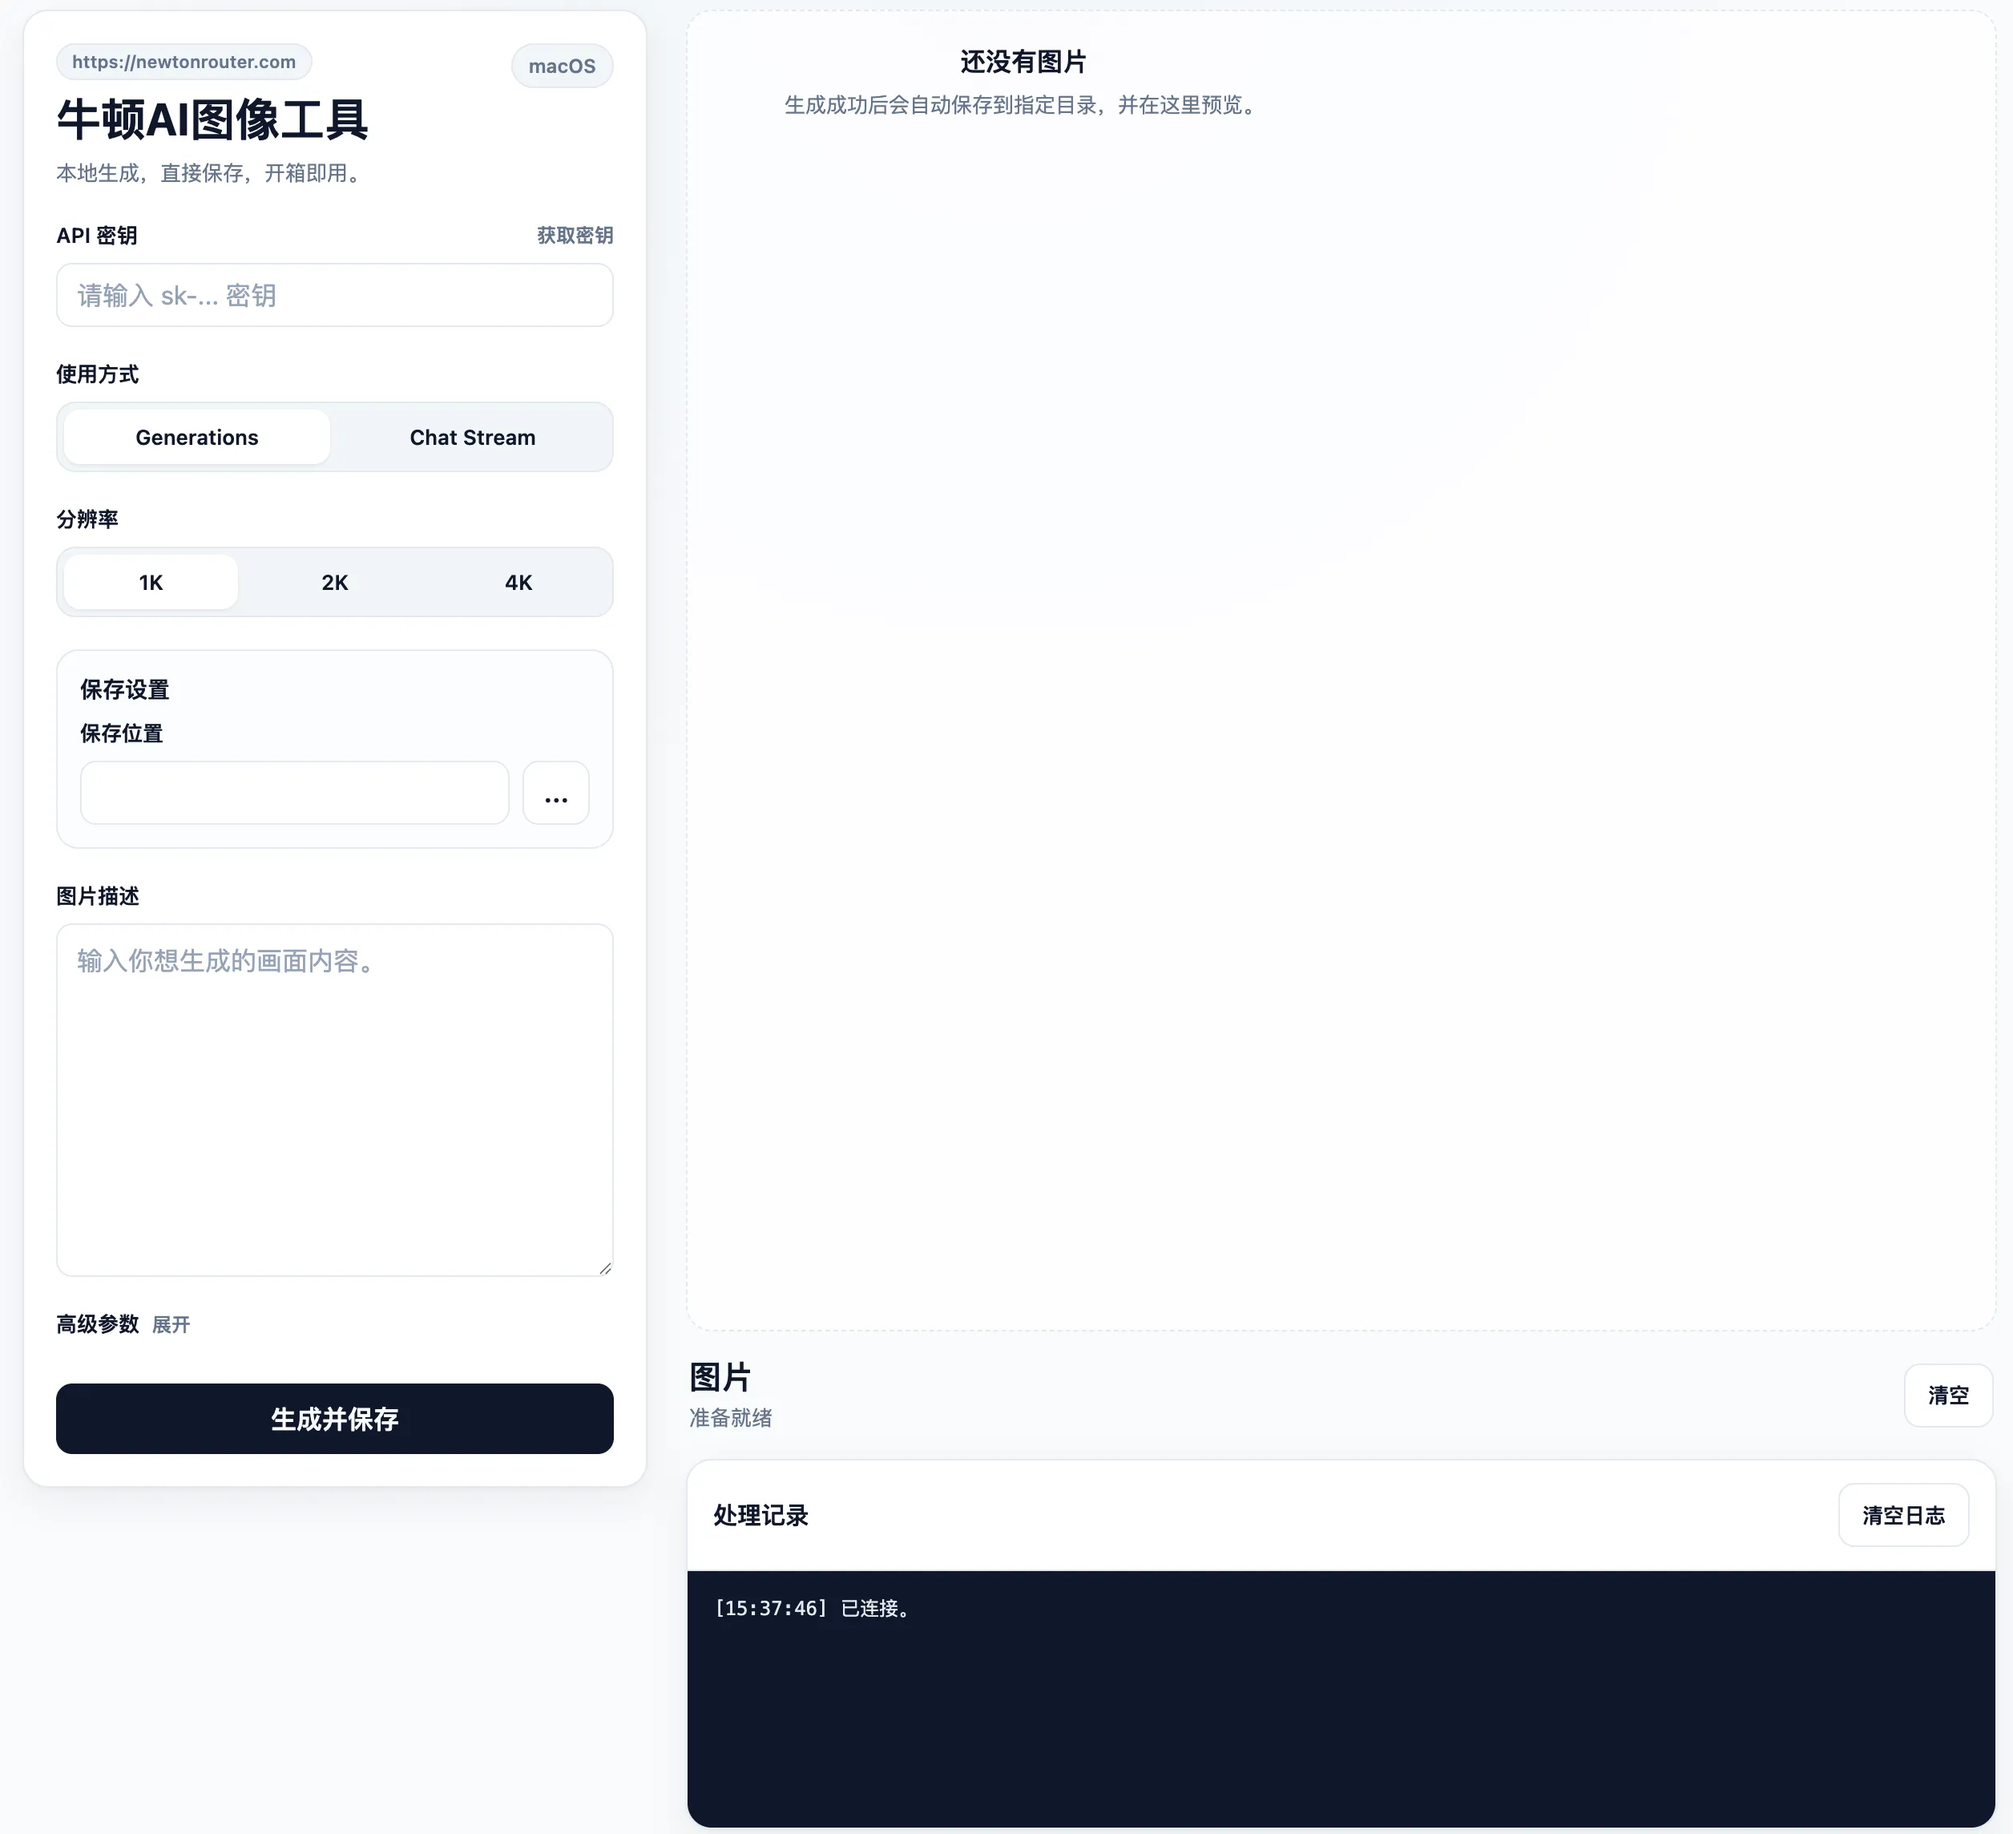
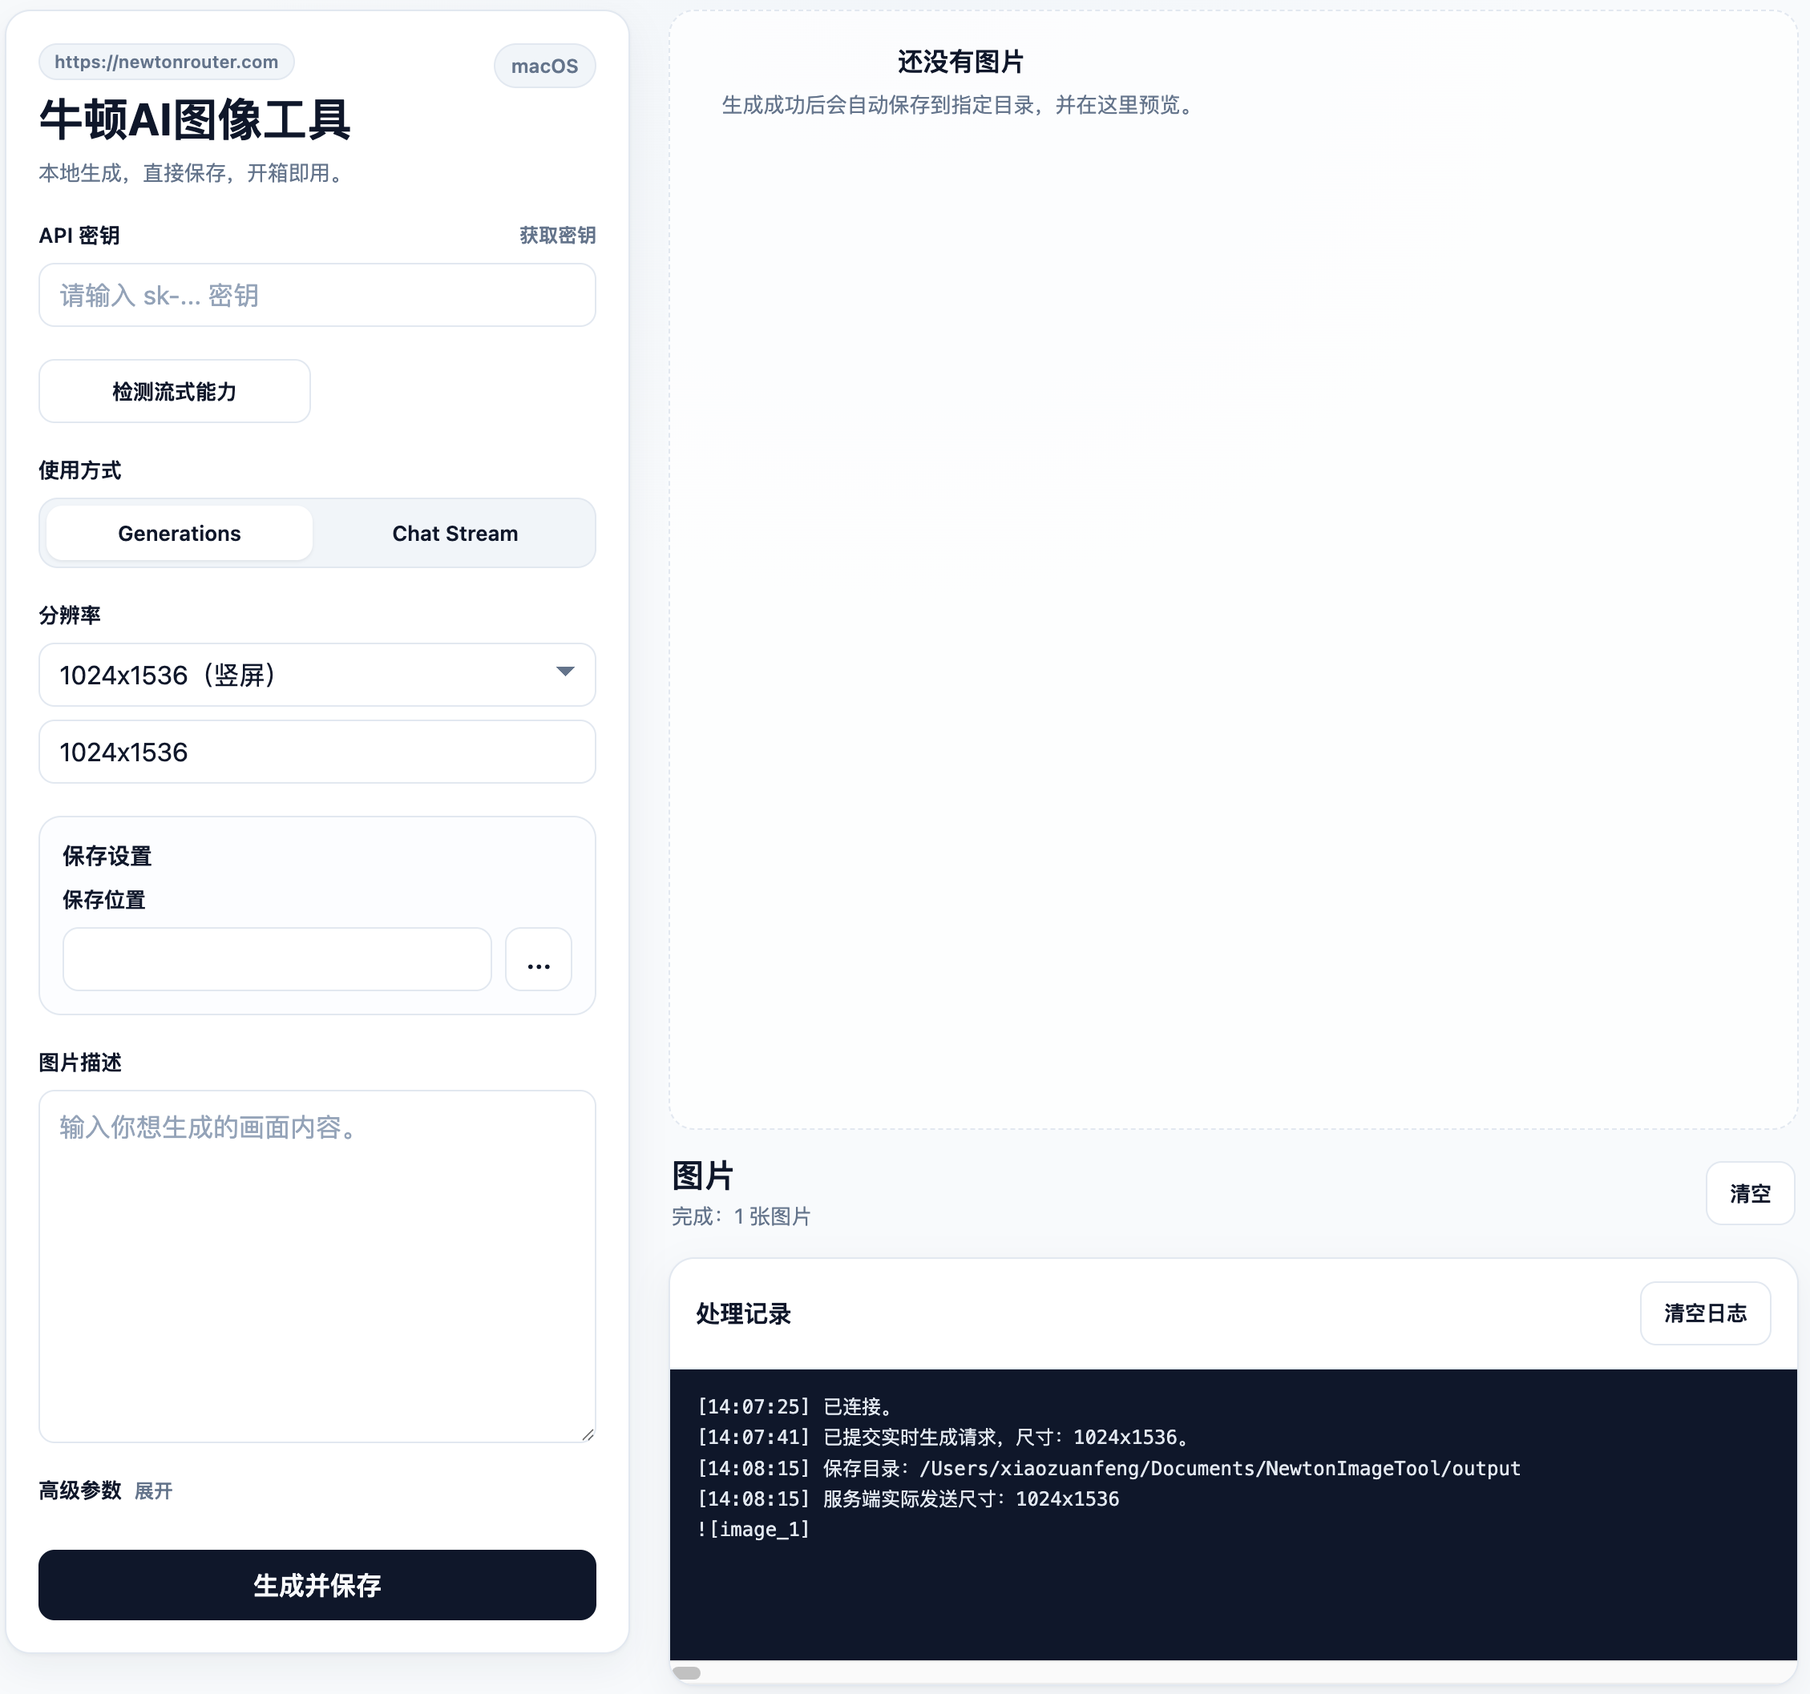
Update GPT image docs content

diff --git a/docs/Gpt-image-2.md b/docs/Gpt-image-2.md
@@ -2,7 +2,7 @@
 
 ## <font style="color:rgb(24, 24, 27);background-color:rgb(250, 250, 250);">Curl使用</font>
 ```plain
-curl -m 300 -X POST "https://newtonrouter.com/openai/v1/images/generations" \
+curl -m 300 -X POST "https://image.newtonrouter.com/v1/images/generations" \
   -H "Authorization: Bearer your-api-key" \
   -H "Content-Type: application/json" \
   -d '{"model":"gpt-image-2","prompt":"a cat","size":"1024x1024","quality":"low"}'
@@ -10,11 +10,11 @@ curl -m 300 -X POST "https://newtonrouter.com/openai/v1/images/generations" \
 
 ## <font style="color:rgb(24, 24, 27);background-color:rgb(250, 250, 250);">使用可视化工具</font>
 ### 国内下载地址：
-[夸克网盘分享](https://pan.quark.cn/s/d5919430fb71)
+[夸克网盘分享](https://pan.quark.cn/s/5cd1b78ba3e1)
 
 ###   
 GitHub：
-[https://github.com/Aunt-Lee/newton-image-tool/releases/tag/v1.0.0](https://github.com/Aunt-Lee/newton-image-tool/releases/tag/v1.0.0)
+[https://github.com/Aunt-Lee/newton-image-tool/releases](https://github.com/Aunt-Lee/newton-image-tool/releases)
 
 
 
